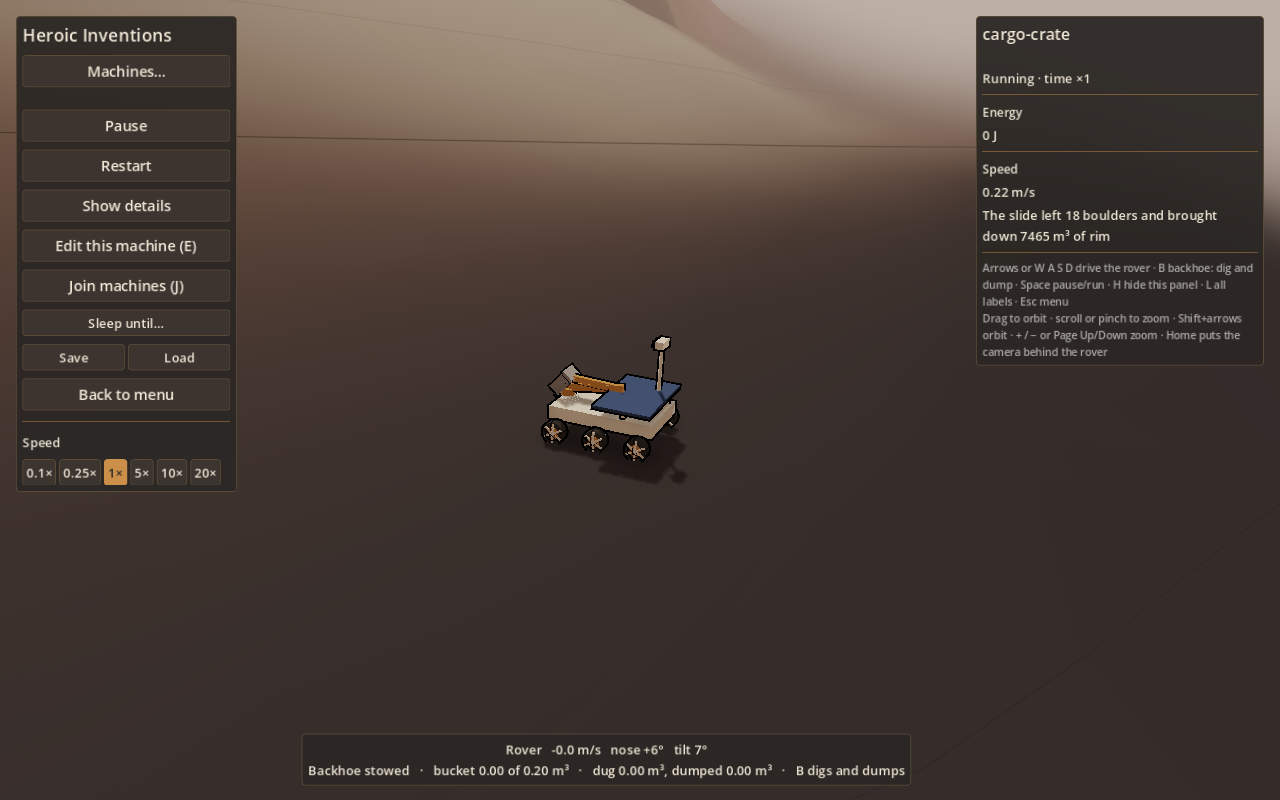
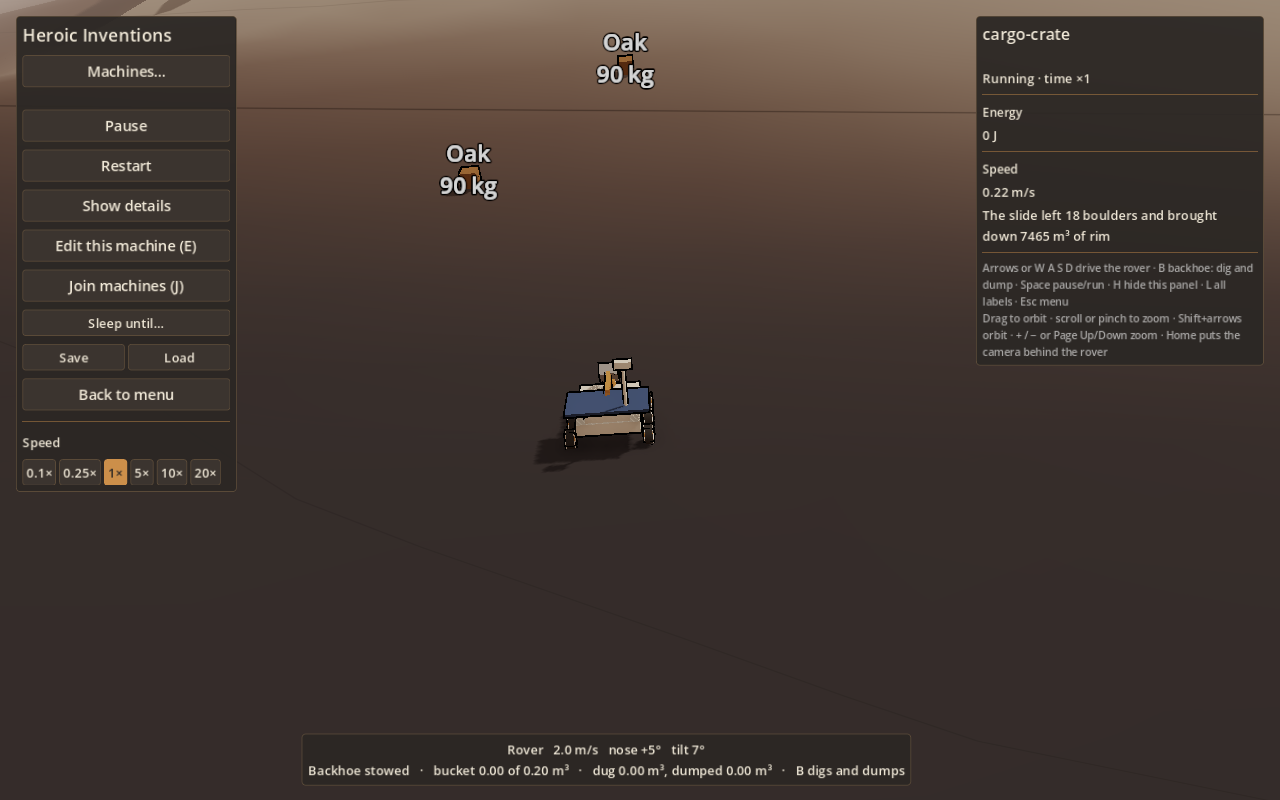
The rover and its arm hold still while the game is paused; the design doc records the rover's body and its measured speed, grade and bucket (#94).

diff --git a/docs/lonely-rover.html b/docs/lonely-rover.html
@@ -205,6 +205,7 @@ td.needs { color: var(--mars); font-weight: 600; white-space: nowrap; }
     <p>What is <em>not</em> waved away:</p>
     <ul>
       <li><strong>Driving is on the surface.</strong> The rover drives on the ground and on anything built to carry it, and can't pass through walls, machines or the crater's cliffs. It climbs inclined planes up to a maximum grade (Opportunity was rated for about 30° of tilt), so reaching a raised platform means building a ramp to it.</li>
+      <li><strong>The rover's body (#94, built 2026-10-08).</strong> A 185 kg Jolt body about Opportunity's size (1.7 m long, 6 wheels of 0.3 m, a mast and a backhoe at the front), driven with the arrow keys or W A S D, with B for the backhoe's dig-and-dump. Each wheel is a hinge motor (not a VehicleBody3D, which under Jolt holds a slope with no engine, #34). Measured in Jolt (game/scripts/RoverEval.cs, checked by racket/heroic/tests/rover-eval-test.rkt): it drives at 2.0 m/s (a game pace; Opportunity's own 5 cm/s would take hours to cross the crater), turns at about 0.64 rad/s, climbs a 28° slope at full speed and stalls from 30 to 31°, and with the wheels braked holds a slope up to about 36°. The steepest climb is the motors' torque (42 N·m a wheel), not a coded limit, so ramps of other materials and the ground's friction still matter. The backhoe takes a 0.2 m³ bucketful from the cell under its teeth (never bedrock) and dumps the same volume, only at or below the height it dug from (#72); what is dug equals what is dumped.</li>
       <li><strong>Free effort never makes energy</strong> (#72). The rover moves loads sideways or down, never up: vessels and weights are placed empty, the backhoe dumps at or below where it dug, the rover climbs ramps with an empty bucket, and it can't turn a treadwheel or push a capstan. Otherwise it would be a perpetual-motion machine. Lifting is the machines' job.</li>
       <li><strong>The results obey physics.</strong> Only the rover's effort is free. A reservoir's banks still slump if dug steeper than the angle of repose (#44), a pile of spoil still slides, and a reservoir still leaks through sandy walls unless lined.</li>
     </ul>

diff --git a/game/scripts/Rover.cs b/game/scripts/Rover.cs
@@ -61,12 +61,15 @@ public sealed partial class Rover : Node3D
     public double SpeedScale { get; set; } = 1;
 
     private double _speedCmd, _turnCmd;
+    private bool _frozen;
 
     /// <summary>Holds the whole rover still (the game is paused).</summary>
     public bool Frozen
     {
+        get => _frozen;
         set
         {
+            _frozen = value;
             Chassis.Freeze = value;
             foreach (var w in _wheels) w.Freeze = value;
         }

diff --git a/game/scripts/Rover.Backhoe.cs b/game/scripts/Rover.Backhoe.cs
@@ -135,7 +135,7 @@ public sealed partial class Rover
 
     public override void _Process(double delta)
     {
-        if (_step < 0) return;
+        if (_step < 0 || Frozen) return;   // paused: the arm holds still too
         _stepTime += delta;
         var (phase, seconds) = Cycle[_step];
         double t = Math.Min(1, _stepTime / seconds);
